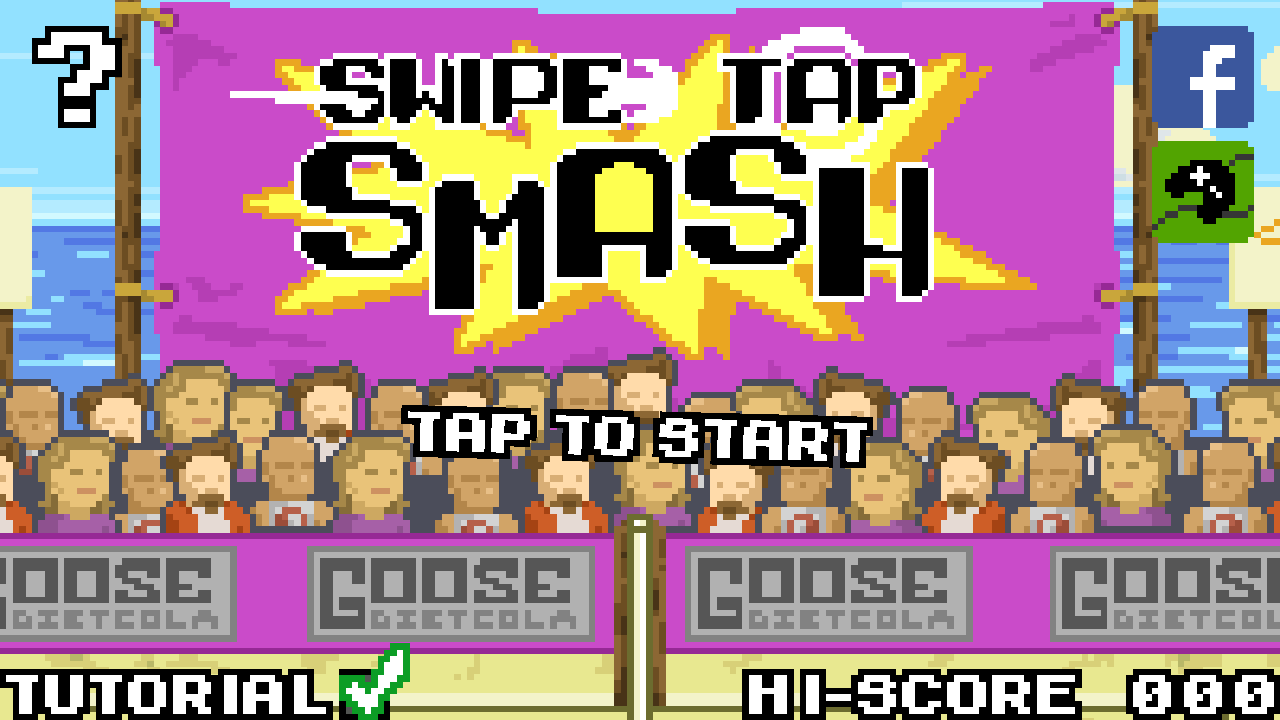
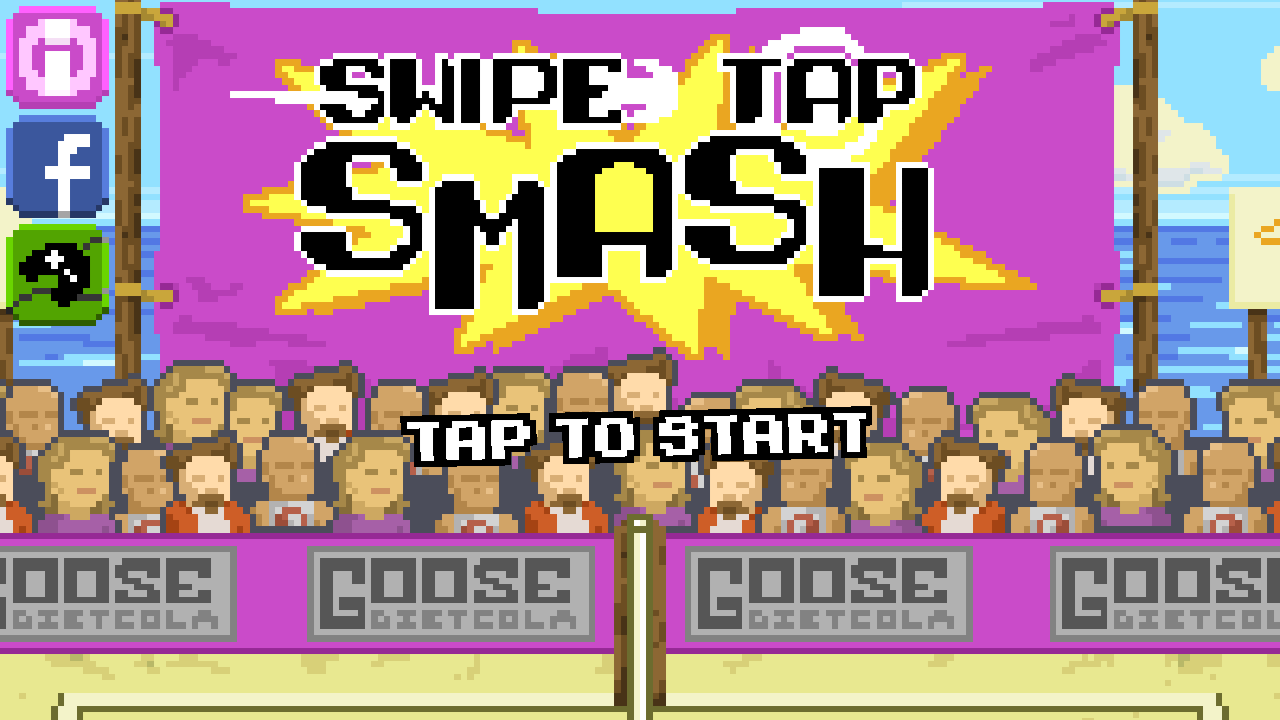
[website] Adding Android button, trailer with Android and updated screenshot of main menu.

diff --git a/Promotion/Website/index.html b/Promotion/Website/index.html
@@ -35,11 +35,12 @@
             <h2>Volleyball with nothing but <div class="shake">smashes!</div></h2>
             <p>Flick your player into the air, and when the timing is right, tap the screen to send the ball flying!</p>
             <p><a href="http://www.windowsphone.com/s?appid=5ad36640-4db6-41b2-a840-df85e7309bf1"  target="_blank"><img src="images/wp_download_cyan.png" /></a></p>
-            <h3><u>Android</u> and <u>iOS</u> coming soon!</h3>
+            <p><a href="https://play.google.com/store/apps/details?id=com.swipetapsmash"  target="_blank"><img src="images/google_download_black.png" /></a></p>
+            <h3><u>iOS</u> coming soon!</h3>
         </div>
         
         <div class="phone-emu">
-            <iframe width="640" height="360" src="http://www.youtube.com/embed/HfLySxoVkLk?vq=hd720;rel=0;3&amp;autohide=1&amp;showinfo=0" frameborder="0" allowfullscreen></iframe>
+            <iframe width="640" height="360" src="http://www.youtube.com/embed/cBHI6m_lJp8?vq=hd720;rel=0;3&amp;autohide=1&amp;showinfo=0" frameborder="0" allowfullscreen></iframe>
             <!--
             <iframe src="http://player.vimeo.com/video/75738381?byline=0&amp;portrait=0" width="640" height="361" frameborder="0" webkitallowfullscreen mozallowfullscreen allowfullscreen></iframe>
             -->
